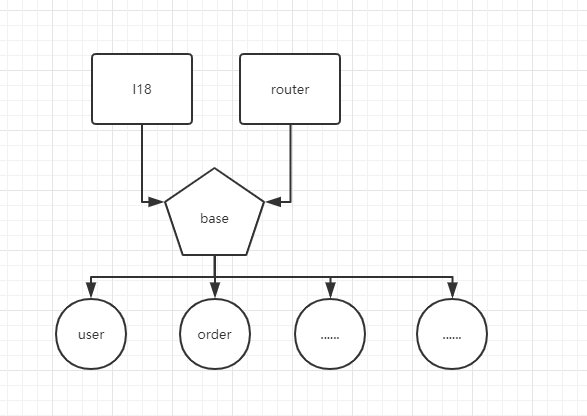
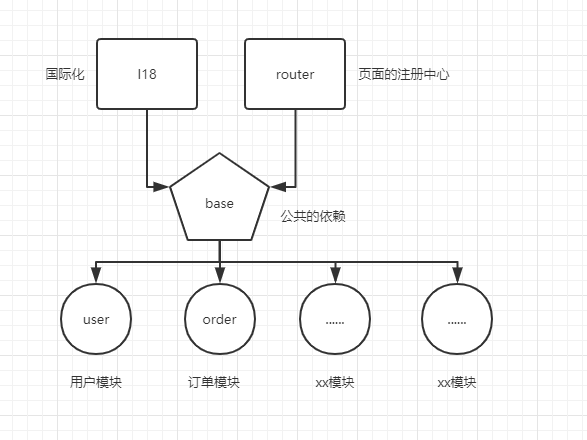
完善

diff --git a/README.md b/README.md
@@ -2,4 +2,5 @@
 大型android项目基础架构，AndroidX、Koin、模块化、模块代码权限控制、单Activity多fragment
 
 
-<img src="screenshots/liucheng.jpg" width = "60%"/>
+<img src="screenshots/liucheng.jpg" width = "50%"/> <img src="screenshots/shuoming.jpg" width = "50%"/>
+
